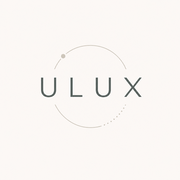
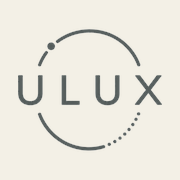
Swap in the cutout ULUX mark
Transparent wordmark in-app; home-screen icons sit on paper so the
thin rings stay visible on Pixel.

diff --git a/src/routes/__root.tsx b/src/routes/__root.tsx
@@ -27,12 +27,12 @@ export const Route = createRootRoute({
       { name: "apple-mobile-web-app-capable", content: "yes" },
     ],
     links: [
-      { rel: "icon", type: "image/png", sizes: "32x32", href: "/icons/icon-32.png" },
-      { rel: "icon", type: "image/png", sizes: "192x192", href: "/icons/icon-192.png" },
+      { rel: "icon", type: "image/png", sizes: "32x32", href: "/icons/icon-32.png?v=3" },
+      { rel: "icon", type: "image/png", sizes: "192x192", href: "/icons/icon-192.png?v=3" },
       { rel: "icon", type: "image/svg+xml", href: "/favicon.svg" },
       { rel: "stylesheet", href: appCss },
       { rel: "manifest", href: "/__grok/manifest.webmanifest" },
-      { rel: "apple-touch-icon", href: "/__grok/icon-180.png" },
+      { rel: "apple-touch-icon", href: "/__grok/icon-180.png?v=3" },
       {
         rel: "preconnect",
         href: "https://fonts.googleapis.com",

diff --git a/src/components/brand-mark.tsx b/src/components/brand-mark.tsx
@@ -11,7 +11,7 @@ export function BrandMark({
   return (
     <div className="text-center">
       <img
-        src="/icons/logo.png"
+        src="/icons/logo.png?v=3"
         alt="ULUX"
         width={px}
         height={px}
